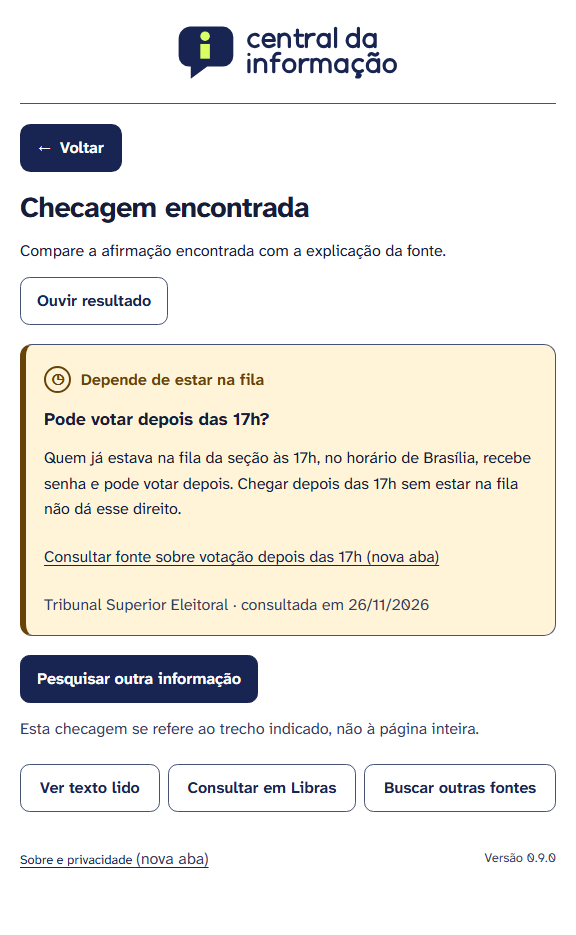
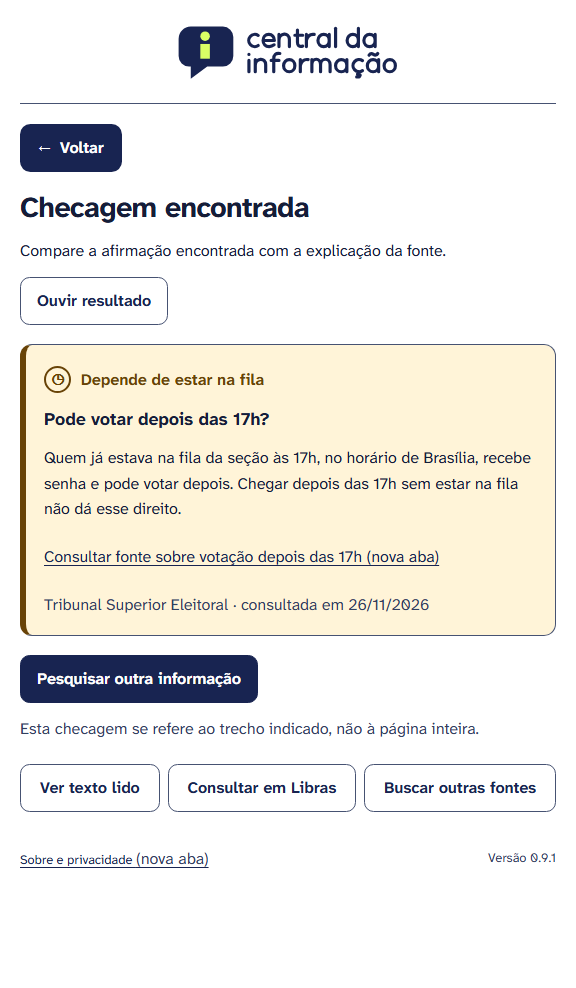
Centraliza os ícones dos cards e reduz o botão de informação

Changed region(s): [[0.0312, 0.0, 0.9688, 0.9305]]

diff --git a/web/estilos.css b/web/estilos.css
@@ -39,28 +39,29 @@ p { margin: .8rem 0; }
 .action-grid { display: grid; grid-template-columns: repeat(2, minmax(0, 1fr)); gap: 14px; }
 .card-shell { position: relative; min-width: 0; }
 .card-wide { grid-column: 1 / -1; }
-.card-shell .action-card { width: 100%; height: 100%; padding-top: 56px; }
-.card-info { position: absolute; right: .4rem; top: .4rem; display: grid; place-items: center; width: 44px; height: 44px; padding: 8px; border: 0; border-radius: 50%; background: var(--surface); color: var(--primary); }
-.card-info svg { width: 24px; height: 24px; stroke: currentColor; stroke-width: 2; stroke-linecap: round; }
+.card-shell .action-card { width: 100%; height: 100%; }
+.card-info { position: absolute; right: .4rem; top: .4rem; display: grid; place-items: center; width: 44px; height: 44px; padding: 8px; border: 0; border-radius: 50%; background: transparent; color: var(--primary); }
+.card-info::before { content: ""; position: absolute; inset: 6px; border-radius: 50%; background: var(--surface); }
+.card-info svg { position: relative; width: 20px; height: 20px; stroke: currentColor; stroke-width: 2; stroke-linecap: round; }
 .card-number { position: absolute; top: .8rem; left: 1rem; font-weight: bold; }
 .card-description { padding: 3.4rem 1rem 1rem; margin: 0; border: 1px solid var(--border); border-radius: 1.25rem; background: var(--surface); min-height: 100%; }
 .card-shell:has(.card-info[aria-expanded="true"]) .action-card { display: none; }
 .card-shell:has(.card-info[aria-expanded="true"]) .card-description { display: block; }
-@media (max-width: 40rem) { .action-grid { grid-template-columns: 1fr; } .action-card { min-height: 145px; } }
-.action-card { display: flex; flex-direction: column; align-items: center; justify-content: center; gap: 14px; min-height: 160px; min-width: 0; padding: 20px 16px; border: 1px solid var(--border); border-radius: 1.25rem; background: var(--surface); color: var(--ink); text-align: center; }
+@media (max-width: 40rem) { .action-grid { grid-template-columns: 1fr; } }
+.action-card { display: grid; grid-template-columns: minmax(0, 1fr); grid-template-rows: 1fr auto 1fr; align-items: center; justify-items: center; gap: 0; min-height: 176px; min-width: 0; padding: 20px 16px; border: 1px solid var(--border); border-radius: 1.25rem; background: var(--surface); color: var(--ink); text-align: center; }
 #open-paste { background: var(--paste); }
 #open-audio { background: var(--audio); }
 #open-settings { background: var(--settings); }
-#open-elections { grid-column: 1 / -1; flex-direction: row; flex-wrap: wrap; min-height: 96px; background: var(--signal); }
+#open-elections { background: var(--signal); }
 .news-heading { margin-top: 1.6rem; }
 .headlines li { padding-block: .6rem .9rem; border-top: 1px solid var(--border); }
 .headlines a { font-weight: 650; }
 .action-card-primary { background: var(--primary); color: var(--on-primary); border-color: var(--primary); }
 .action-card-primary .card-icon { color: var(--signal); }
 .action-card:hover .card-label { text-decoration: underline; text-underline-offset: .2em; }
-.card-icon { display: block; line-height: 0; }
+.card-icon { display: block; grid-row: 2; line-height: 0; }
 .card-icon svg { width: 3.5rem; height: 3.5rem; stroke: currentColor; stroke-width: 1.6; stroke-linecap: round; stroke-linejoin: round; }
-.card-label { font-size: 1rem; font-weight: 700; line-height: 1.4; min-width: 0; }
+.card-label { grid-row: 3; align-self: start; margin-top: 12px; font-size: 1rem; font-weight: 700; line-height: 1.4; min-width: 0; }
 body[data-large-text="true"] .action-grid { grid-template-columns: 1fr; }
 .loading-message { color: var(--primary); font-size: 1rem; }
 .tool-view { padding-top: 1.25rem; }

diff --git a/web/index.html b/web/index.html
@@ -187,7 +187,7 @@
       </section>
       <p class="sr-only" id="app-status" role="status" aria-live="polite" aria-atomic="true"></p>
     </main>
-    <footer class="footer"><a href="sobre.html" target="_blank" rel="noopener noreferrer">Sobre e privacidade <span class="small">(nova aba)</span></a><span id="project-version">Versão 0.9.0</span></footer>
+    <footer class="footer"><a href="sobre.html" target="_blank" rel="noopener noreferrer">Sobre e privacidade <span class="small">(nova aba)</span></a><span id="project-version">Versão 0.9.1</span></footer>
   </div>
 </body>
 </html>

diff --git a/README.md b/README.md
@@ -2,11 +2,11 @@
 
 # Central da Informação
 
-**Versão 0.9.0** · Site e extensão para Chrome de computador.
+**Versão 0.9.1** · Site e extensão para Chrome de computador.
 
 A Central da Informação acompanha a área de tela que você escolher, reconhece texto em português e mostra a afirmação checada, a explicação e a fonte. O acompanhamento ocorre no dispositivo e dispensa conta, chave de API e gravação.
 
-<p align="center"><img src="docs/inicio.png" width="320" height="519" alt="Painel inicial com cinco botões e acompanhamento da tela ativado."> <img src="docs/checagem.png" width="320" height="519" alt="Resultado com a condição para votar depois das 17h e a fonte do Tribunal Superior Eleitoral."></p>
+<p align="center"><img src="docs/inicio.png" width="320" height="549" alt="Painel inicial com cinco botões e acompanhamento da tela ativado."> <img src="docs/checagem.png" width="320" height="549" alt="Resultado com a condição para votar depois das 17h e a fonte do Tribunal Superior Eleitoral."></p>
 
 ## Executar o site
 
